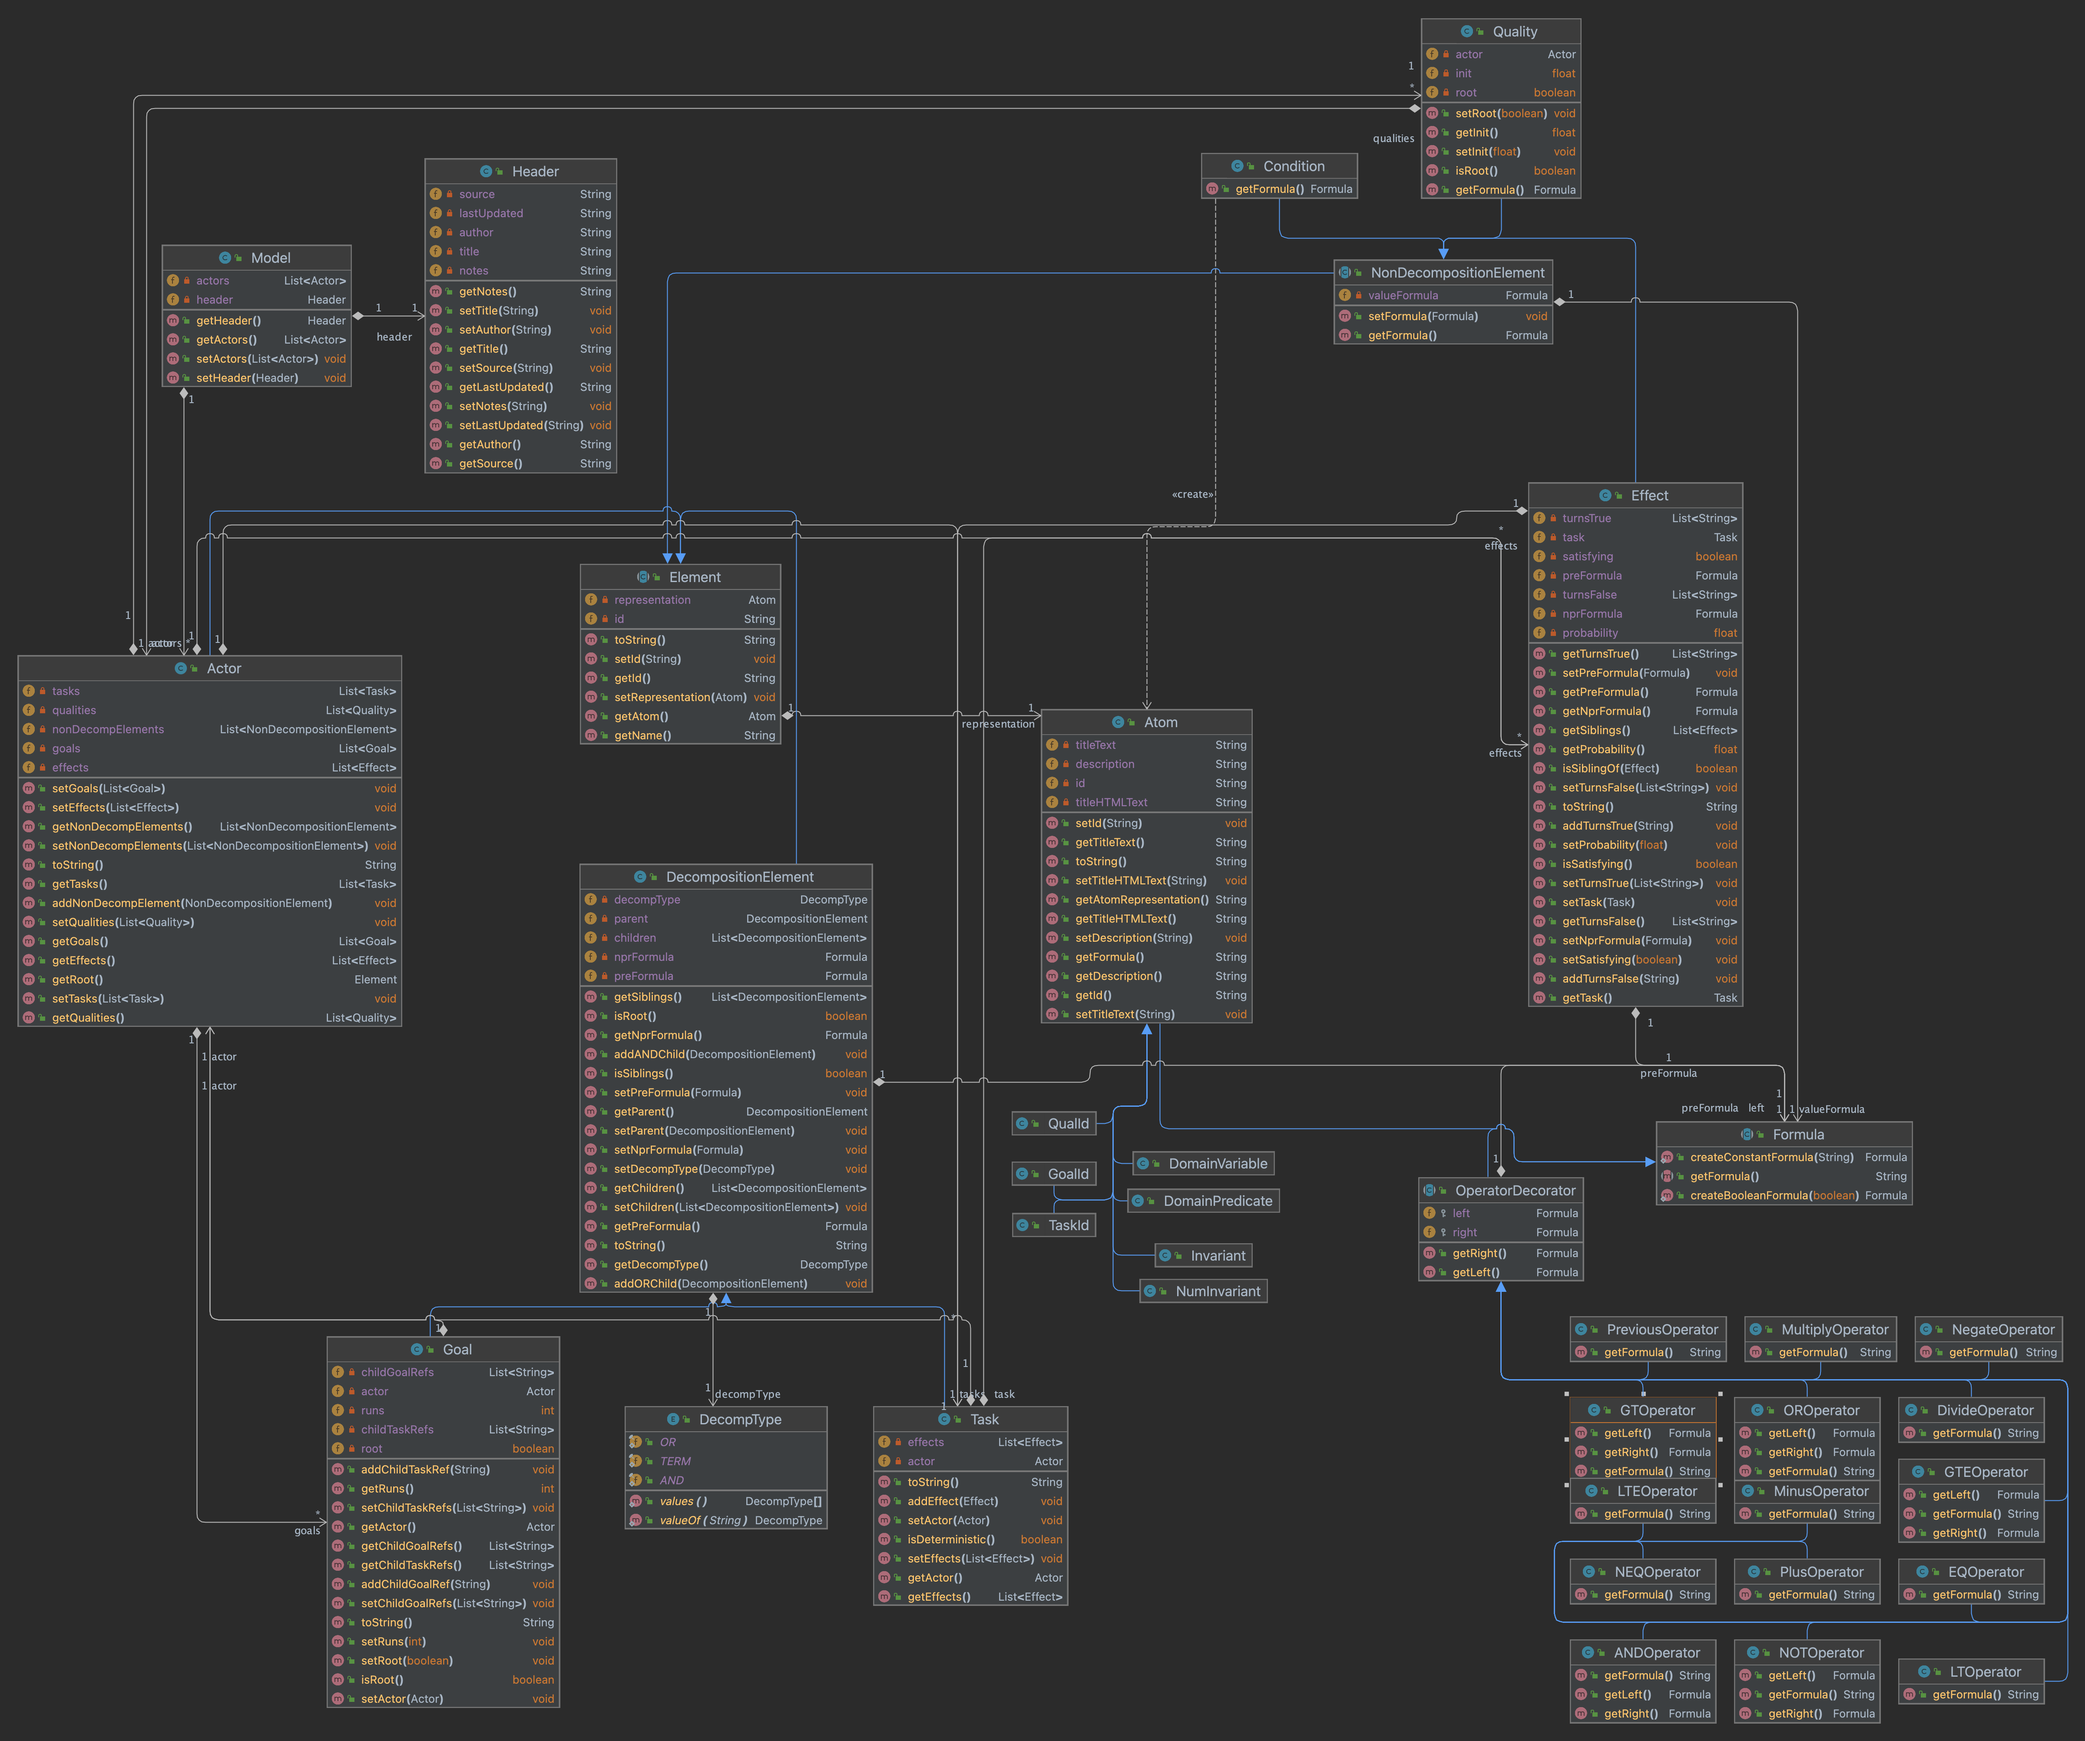
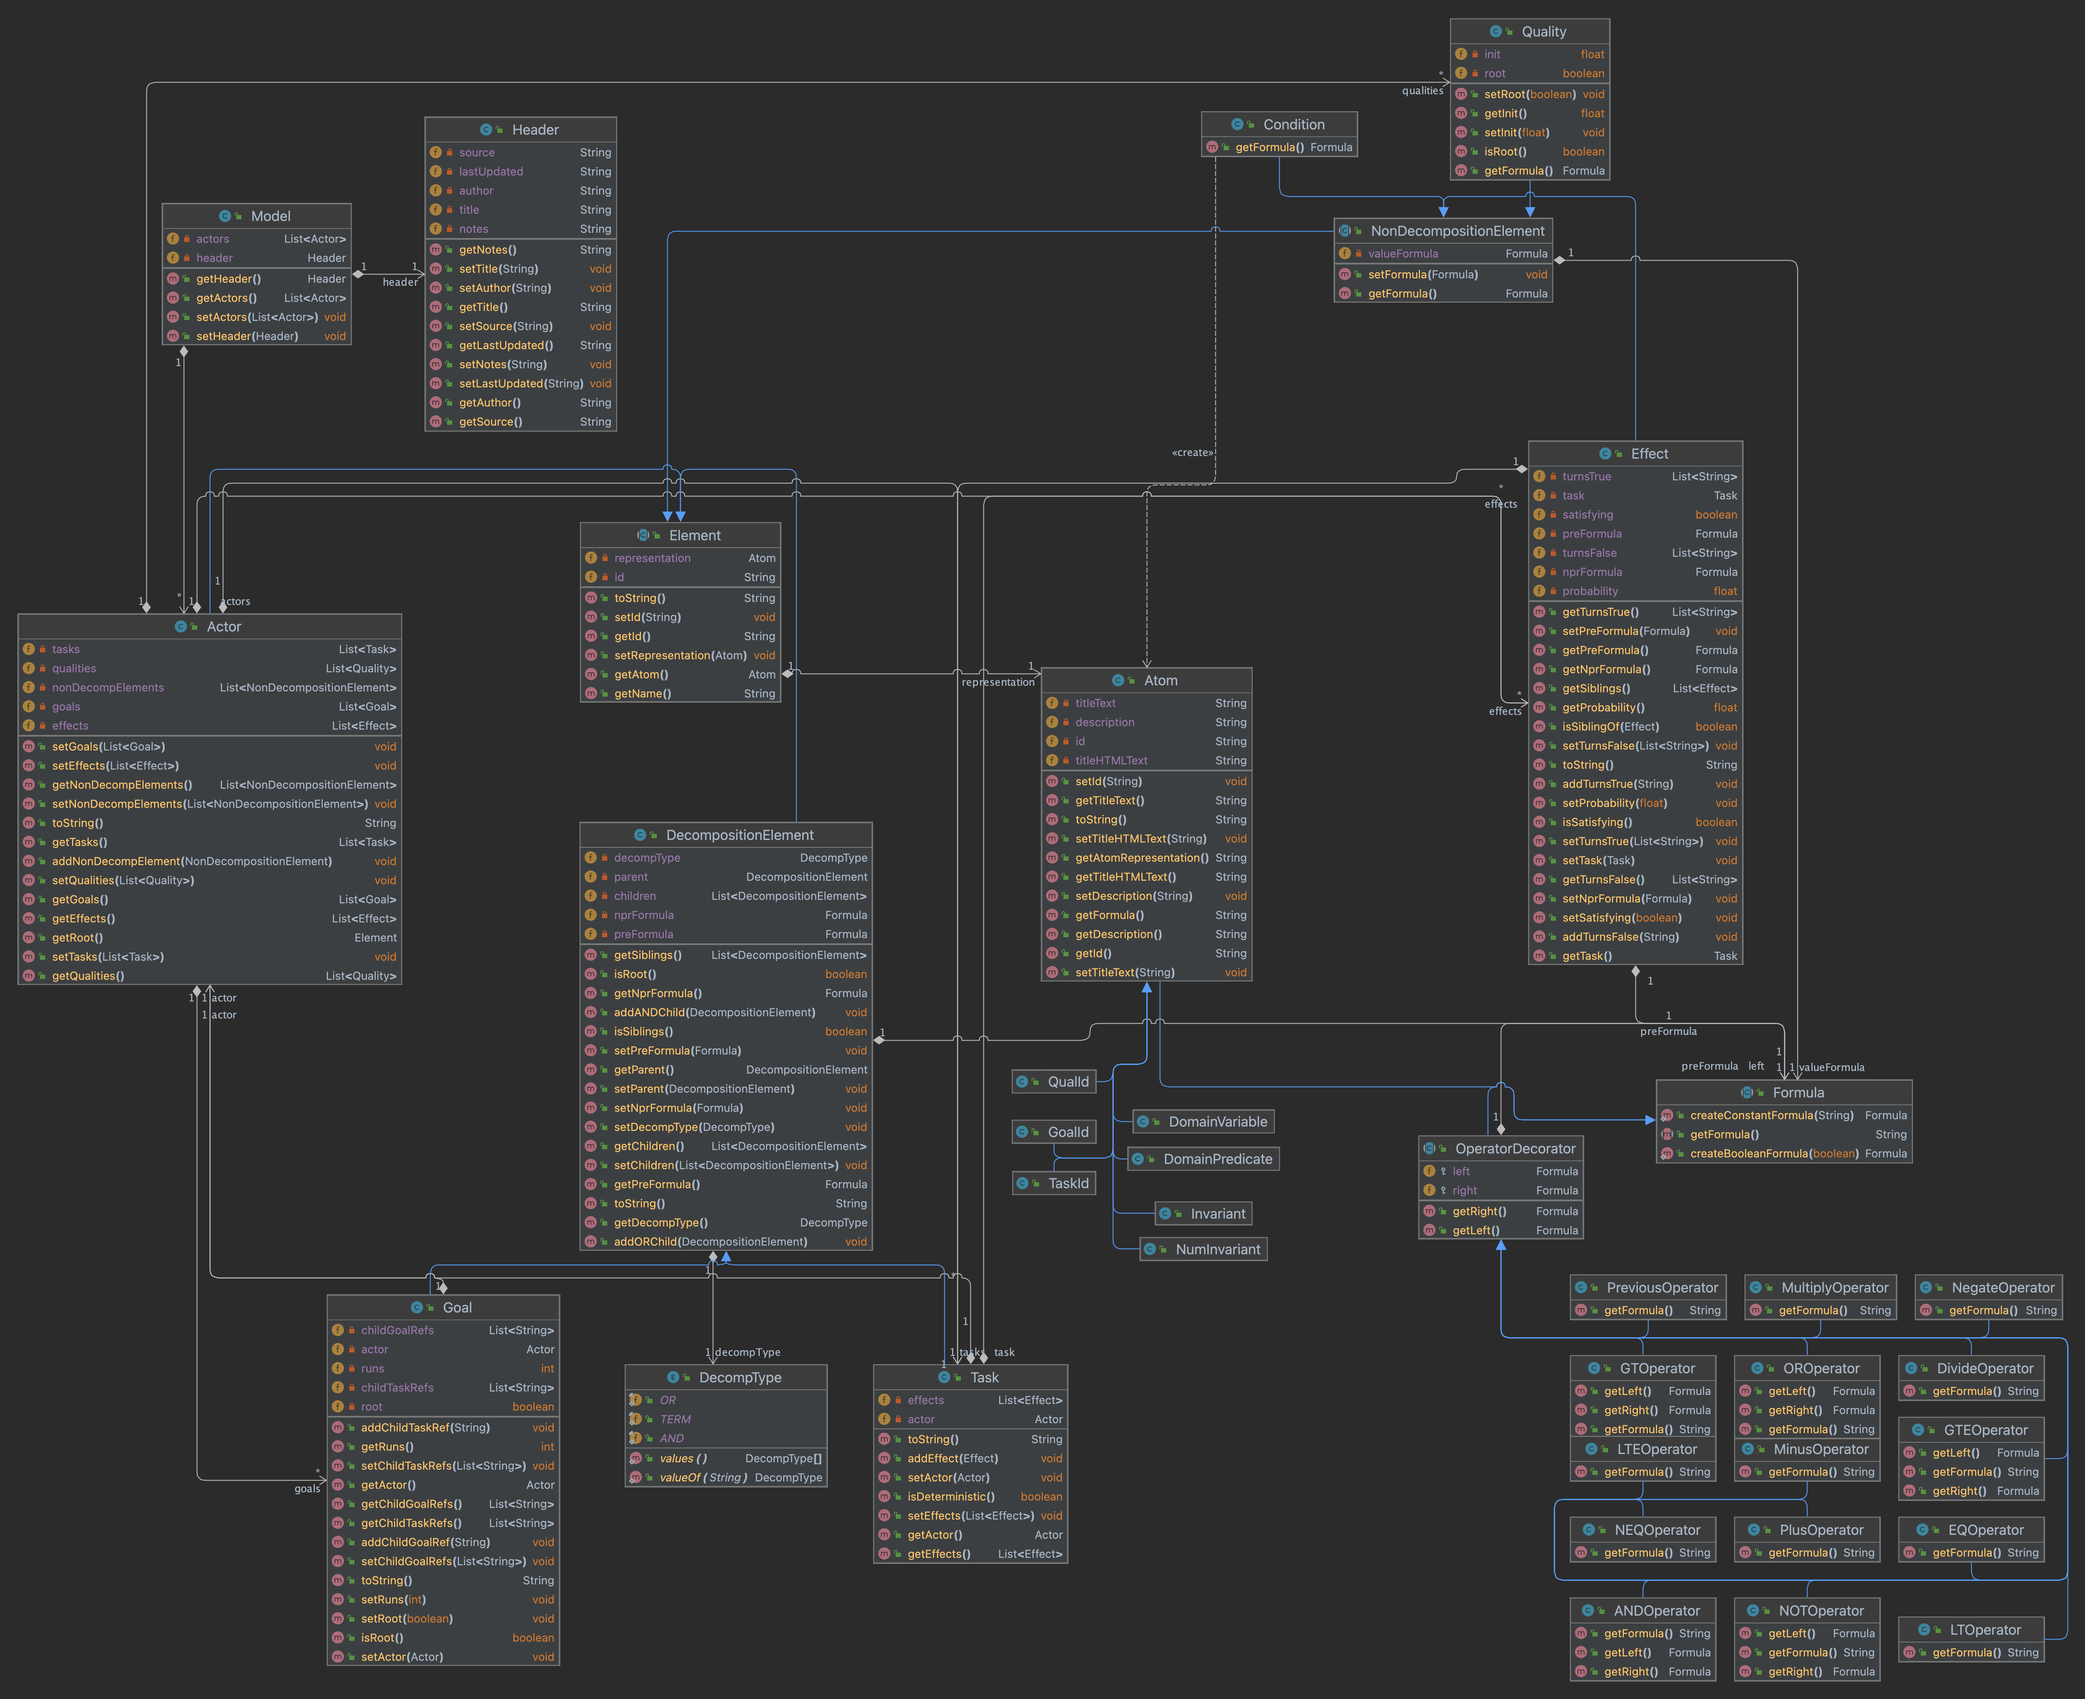
Update uml diagram

diff --git a/docs/domain_model_uml.md b/docs/domain_model_uml.md
@@ -233,7 +233,6 @@ class PreviousOperator {
 }
 class QualId
 class Quality {
-  - Actor actor
   - float init
   - boolean root
   + setRoot(boolean) void
